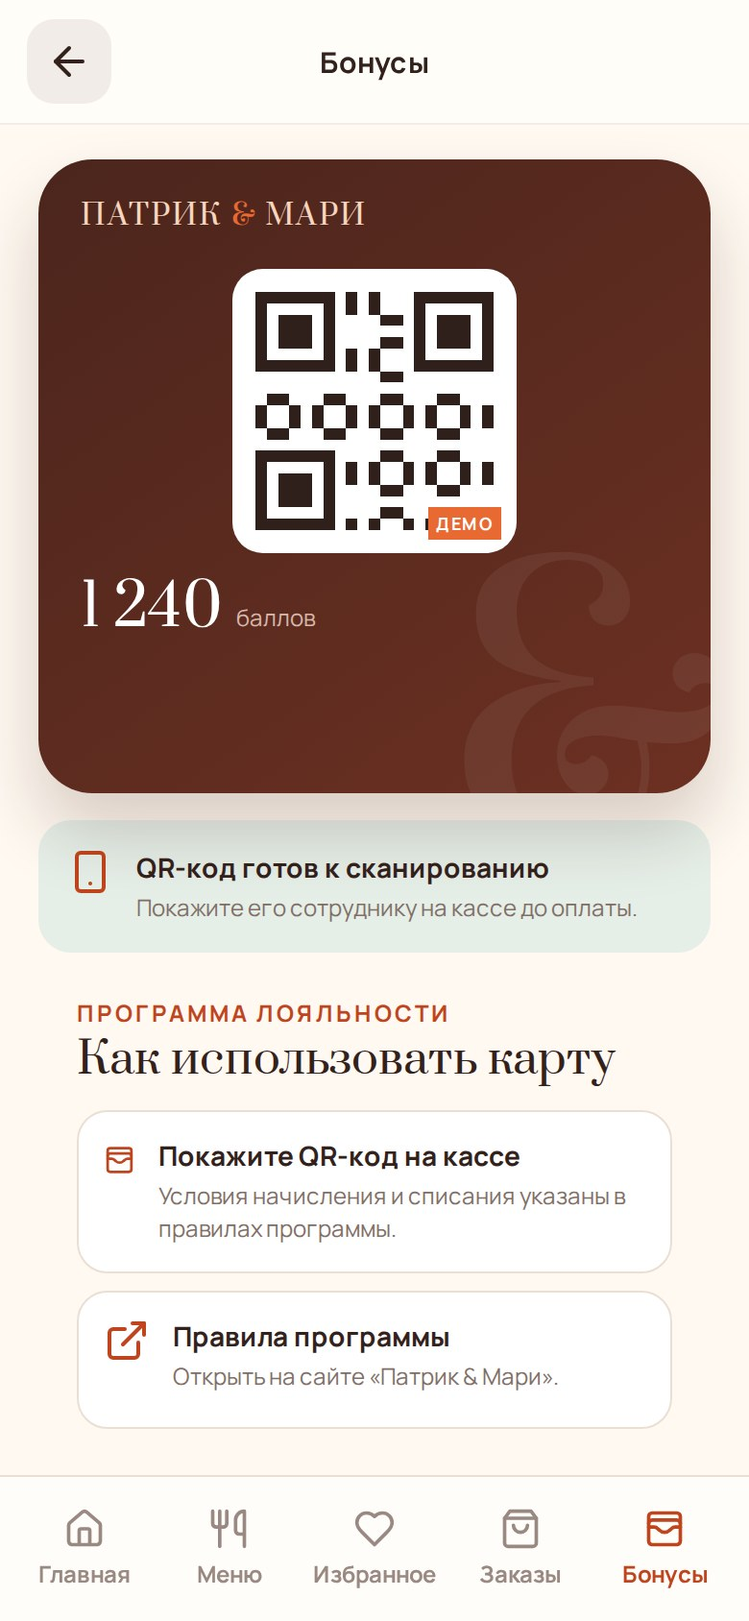
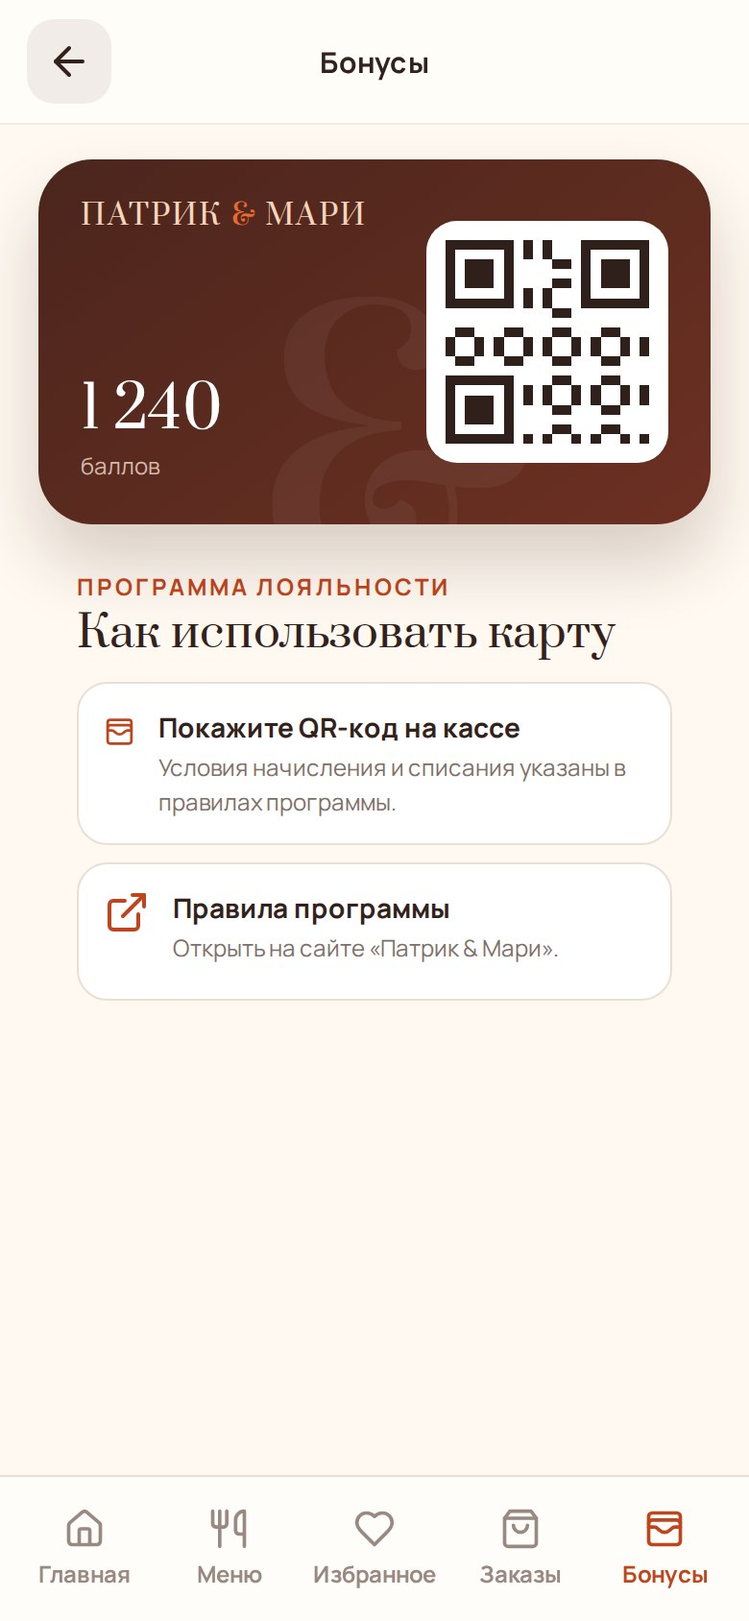
Refine cake card and loyalty presentation

diff --git a/src/index.css b/src/index.css
@@ -80,11 +80,12 @@ button:disabled { opacity: .42; cursor: not-allowed; }
 .loyalty-tile > span { display: flex; align-items: center; gap: 8px; font-size: 11px; color: #f1c7a8; }
 .loyalty-tile strong { font: 400 31px/1 'Prata', serif; margin-top: auto; }
 .loyalty-tile small { color: #c9aaa0; font-size: 9px; }
-.cake-tile { position: relative; isolation: isolate; overflow: hidden; color: #fff; display: flex; flex-direction: column; justify-content: flex-end; background: linear-gradient(180deg, rgba(46,20,17,.08) 8%, rgba(54,20,21,.82) 100%), url('/assets/food/cakes.jpg') center/cover; box-shadow: inset 0 0 0 1px rgba(255,255,255,.16); }
-.cake-tile::after { content: ''; position: absolute; z-index: -1; inset: 0; background: linear-gradient(135deg, rgba(255,255,255,.12), transparent 45%); pointer-events: none; }
-.cake-tile-kicker { align-self: flex-start; margin-bottom: auto; padding: 6px 8px; border-radius: 99px; color: #fff; background: rgba(70,28,28,.58); backdrop-filter: blur(7px); font-size: 8px; font-weight: 800; letter-spacing: .04em; }
+.cake-tile { position: relative; isolation: isolate; overflow: hidden; color: var(--brown); display: flex; flex-direction: column; justify-content: flex-end; background: #f4d9c6; box-shadow: inset 0 0 0 1px rgba(111,55,37,.1); }
+.cake-tile-image { position: absolute; z-index: -2; inset: 0; width: 100%; height: 100%; object-fit: cover; object-position: 62% center; }
+.cake-tile::after { content: ''; position: absolute; z-index: -1; inset: 0; background: linear-gradient(90deg, rgba(255,242,230,.98) 0%, rgba(255,242,230,.7) 52%, rgba(255,242,230,.06) 100%), linear-gradient(0deg, rgba(255,242,230,.98) 0%, rgba(255,242,230,.18) 76%); pointer-events: none; }
+.cake-tile-kicker { align-self: flex-start; margin-bottom: auto; padding: 6px 8px; border-radius: 99px; color: #fff; background: rgba(88,39,31,.88); backdrop-filter: blur(7px); font-size: 8px; font-weight: 800; letter-spacing: .04em; }
 .cake-tile > strong { max-width: 125px; font: 400 18px/1.12 'Prata', serif; letter-spacing: -.02em; text-wrap: balance; }
-.cake-tile > small { margin-top: 5px; color: rgba(255,255,255,.78); font-size: 8px; line-height: 1.35; }
+.cake-tile > small { max-width: 124px; margin-top: 5px; color: rgba(75,37,28,.72); font-size: 8px; line-height: 1.35; }
 .cake-tile-arrow { position: absolute; right: 13px; top: 13px; width: 31px; height: 31px; border-radius: 50%; display: grid; place-items: center; color: #6d3037; background: rgba(255,255,255,.9); box-shadow: 0 6px 16px rgba(48,17,18,.18); }
 .section-block { margin: 0 20px 24px; }
 .section-title { display: flex; align-items: flex-end; justify-content: space-between; margin-bottom: 12px; }
@@ -207,7 +208,7 @@ button:disabled { opacity: .42; cursor: not-allowed; }
 .cake-body { flex: 1 0 auto; padding: 22px 20px 24px; }.choice-grid { display: grid; gap: 9px; }.choice-grid button { min-height: 56px; border: 1px solid var(--line); border-radius: 17px; background: #fff; padding: 0 15px; display: flex; justify-content: space-between; align-items: center; text-align: left; font-size: 11px; cursor: pointer; }.choice-grid button.selected { border-color: var(--rose); background: #fff0f0; }.choice-grid svg { width: 17px; color: var(--rose); }.fine-print { color: var(--muted); font-size: 9px; line-height: 1.5; }
 .cake-preview { position: relative; height: 132px; overflow: hidden; border-radius: 20px; }.cake-preview img { width: 100%; height: 100%; object-fit: cover; }.cake-preview span { position: absolute; left: 12px; bottom: 12px; padding: 6px 9px; border-radius: 99px; color: #fff; background: rgba(75,37,28,.78); font-size: 9px; font-weight: 700; }
 
-.loyalty-screen { padding-left: 20px; padding-right: 20px; }.loyalty-screen .app-header { margin-left: -20px; margin-right: -20px; }.loyalty-screen .bottom-nav { left: 0; right: 0; }.loyalty-card { position: relative; min-height: 244px; margin: 18px 0 14px; border-radius: 28px; padding: 22px; overflow: hidden; color: #fff; background: linear-gradient(145deg, #4b251c, #6c3022); box-shadow: 0 20px 36px rgba(60,31,22,.2); display: flex; flex-direction: column; }.loyalty-card::after { content: '&'; position: absolute; right: -10px; bottom: -55px; color: rgba(255,255,255,.06); font: 180px/1 'Prata',serif; }.loyalty-card .wordmark { color: #f8d5bd; }.loyalty-card > div:last-child { display: flex; align-items: baseline; gap: 7px; }.loyalty-card > div:last-child strong { font: 400 30px/1 'Prata',serif; }.loyalty-card > div:last-child small { color: #d7b8ab; font-size: 9px; }.offline-banner { margin: 0 0 23px; background: #e5eee7; }.info-list { display: grid; gap: 9px; }.info-list > span { padding: 13px; display: flex; gap: 12px; align-items: flex-start; border: 1px solid var(--line); border-radius: 16px; background: #fff; }.info-list svg { color: var(--orange-dark); }.info-list div { display: flex; flex-direction: column; gap: 3px; }.info-list strong { font-size: 11px; }.info-list small { color: var(--muted); font-size: 9px; line-height: 1.5; }
+.loyalty-screen { padding-left: 20px; padding-right: 20px; }.loyalty-screen .app-header { margin-left: -20px; margin-right: -20px; }.loyalty-screen .bottom-nav { left: 0; right: 0; }.loyalty-card { position: relative; min-height: 190px; margin: 18px 0 24px; border-radius: 28px; padding: 22px; overflow: hidden; color: #fff; background: linear-gradient(145deg, #4b251c, #6c3022); box-shadow: 0 20px 36px rgba(60,31,22,.2); display: grid; grid-template-columns: minmax(0,1fr) 126px; gap: 16px; align-items: center; }.loyalty-card::after { content: '&'; position: absolute; left: 32%; bottom: -62px; color: rgba(255,255,255,.05); font: 180px/1 'Prata',serif; }.loyalty-card-copy { position: relative; z-index: 1; min-width: 0; align-self: stretch; display: flex; flex-direction: column; align-items: flex-start; }.loyalty-card .wordmark { color: #f8d5bd; }.loyalty-balance { margin-top: auto; display: flex; flex-direction: column; gap: 5px; }.loyalty-balance strong { font: 400 30px/1 'Prata',serif; }.loyalty-balance small { color: #d7b8ab; font-size: 9px; }.loyalty-qr { position: relative; z-index: 1; width: 126px; height: 126px; padding: 10px; border-radius: 16px; background: #fff; }.loyalty-qr svg { width: 100%; height: 100%; fill: #2f201c; shape-rendering: crispEdges; }.info-list { display: grid; gap: 9px; }.info-list > span { padding: 13px; display: flex; gap: 12px; align-items: flex-start; border: 1px solid var(--line); border-radius: 16px; background: #fff; }.info-list svg { color: var(--orange-dark); }.info-list div { display: flex; flex-direction: column; gap: 3px; }.info-list strong { font-size: 11px; }.info-list small { color: var(--muted); font-size: 9px; line-height: 1.5; }
 .login-illustration { width: 112px; height: 112px; border-radius: 38px; display: grid; place-items: center; margin: 34px auto 2px; color: var(--orange-dark); background: #f6dfcf; }.login-illustration svg { width: 48px; height: 48px; }.phone-input, .code-input { min-height: 60px; padding: 0 16px; border: 1px solid var(--line); border-radius: 18px; background: #fff; display: flex; align-items: center; gap: 10px; margin-bottom: 12px; }.phone-input span { font-weight: 800; }.phone-input input, .code-input input { min-width: 0; flex: 1; border: 0; outline: 0; background: transparent; }.code-input input { font-size: 26px; letter-spacing: .5em; text-align: center; }.login-screen .primary { width: 100%; }.helper { display: block; text-align: center; color: var(--muted); font-size: 9px; margin: -3px 0 14px; }.login-screen .text-button { width: 100%; }
 .tabs { display: grid; grid-template-columns: 1fr 1fr; padding: 4px; border-radius: 14px; background: #f1ebe6; }.tabs button { min-height: 38px; border: 0; border-radius: 11px; background: transparent; font-size: 10px; cursor: pointer; }.tabs button.active { background: #fff; box-shadow: 0 3px 10px rgba(52,35,29,.08); }.history-card { width: 100%; margin-top: 14px; padding: 18px; border: 1px solid var(--line); border-radius: 20px; background: #fff; display: flex; flex-direction: column; gap: 6px; text-align: left; cursor: pointer; }.history-date { color: var(--orange-dark); text-transform: uppercase; letter-spacing: .1em; font-size: 8px; font-weight: 800; }.history-card strong { font-size: 12px; }.history-card small { color: var(--muted); font-size: 9px; }.history-action { margin-top: 9px; display: flex; align-items: center; gap: 6px; color: var(--orange-dark); font-size: 10px; font-weight: 800; }.empty-inline { display: flex; gap: 12px; align-items: center; margin-top: 16px; padding: 16px; border-radius: 18px; background: #f5efea; color: var(--muted); }.empty-inline span { display: flex; flex-direction: column; gap: 3px; }.empty-inline strong { color: var(--ink); font-size: 10px; }.empty-inline small { font-size: 9px; line-height: 1.45; }
 .current-orders { display: grid; gap: 12px; margin-top: 14px; }.current-order { padding: 18px; border: 1px solid var(--line); border-radius: 20px; background: #fff; }.order-status { display: flex; align-items: center; gap: 7px; color: var(--green); font-size: 9px; font-weight: 800; }.order-status svg { width: 17px; }.current-order h2 { margin: 13px 0 6px; font-family: 'Manrope', sans-serif; font-size: 13px; font-weight: 800; }.current-order > p { margin: 0; color: var(--muted); font-size: 9px; }.current-order ul { list-style: none; margin: 14px 0; padding: 12px 0; border-top: 1px solid var(--line); border-bottom: 1px solid var(--line); display: grid; gap: 8px; }.current-order li, .current-order > div { display: flex; justify-content: space-between; gap: 12px; font-size: 9px; }.current-order li b, .current-order > div strong { text-align: right; }.current-order > div span { color: var(--muted); }
@@ -378,11 +379,8 @@ button:disabled { opacity: .42; cursor: not-allowed; }
 .form-field textarea { min-height: 62px; resize: vertical; }
 .cake-preview span { font-size: 12px; }
 
-.loyalty-card { min-height: 330px; }
-.demo-qr { position: relative; z-index: 1; width: 148px; height: 148px; margin: 20px auto 14px; padding: 12px; border-radius: 16px; background: #fff; }
-.demo-qr svg { width: 100%; height: 100%; fill: #2f201c; shape-rendering: crispEdges; }
-.demo-qr > span { position: absolute; right: 8px; bottom: 7px; padding: 2px 4px; color: #fff; background: var(--orange); font-size: 9px; font-weight: 900; letter-spacing: .08em; }
-.loyalty-card > div:last-child small { font-size: 12px; }
+.loyalty-card { min-height: 190px; }
+.loyalty-balance small { font-size: 12px; }
 .info-list > span, .info-list > a { min-height: 72px; padding: 13px; display: flex; gap: 12px; align-items: flex-start; border: 1px solid var(--line); border-radius: 16px; color: inherit; background: #fff; text-decoration: none; }
 .info-list strong { font-size: 14px; }
 .info-list small { font-size: 12px; }

diff --git a/src/App.tsx b/src/App.tsx
@@ -348,7 +348,7 @@ function HomeScreen({ state, onMode }: { state: DemoState; onMode: (mode: Servic
       <section className="welcome-card"><span className="eyebrow">Готовая еда каждый день</span><h1>Закажите готовую<br />еду</h1><p>Выберите доставку или самовывоз. Покажем меню и время для выбранного места.</p><div className="welcome-actions"><button className="primary light" onClick={() => onMode('delivery')}><PackageCheck /> Доставка</button><button className="primary ghost-light" onClick={() => onMode('pickup')}><Store /> Самовывоз</button></div></section>
       <section className="quick-grid">
         <button className={`loyalty-tile${state.authenticated ? '' : ' guest'}`} onClick={() => navigate(state.authenticated ? '/loyalty' : '/login?step=phone&next=loyalty')}><span><WalletCards /> Бонусы</span>{state.authenticated ? <><strong>1 240</strong><small>баллов · показать QR-код</small></> : <><strong>Войти</strong><small>Открыть виртуальную карту</small></>}</button>
-        <button className="cake-tile" onClick={() => navigate('/cake?step=occasion')}><span className="cake-tile-kicker">Торт на заказ</span><strong>Оставить заявку</strong><small>Повод, оформление, дата и телефон</small><span className="cake-tile-arrow"><ArrowRight /></span></button>
+        <button className="cake-tile" onClick={() => navigate('/cake?step=occasion')}><img className="cake-tile-image" src={products.find((product) => product.id === 'sour-cream-cake')?.image} alt="" /><span className="cake-tile-kicker">Торт на заказ</span><strong>Оставить заявку</strong><small>Повод, оформление, дата и телефон</small><span className="cake-tile-arrow"><ArrowRight /></span></button>
       </section>
       {state.authenticated ? <section className="section-block"><div className="section-title"><div><span className="eyebrow">Прошлый заказ</span><h2>Заказать снова</h2></div><button onClick={() => navigate('/repeat')}>Проверить заказ</button></div><button className="repeat-card" onClick={() => navigate('/repeat')}><div className="repeat-images"><img src={products.find((product) => product.id === 'syrniki')?.image} alt="Сырник творожный" /><img src={products.find((product) => product.id === 'bakery')?.image} alt="Киш с рыбой" /></div><div><strong>4 товара · {money(total(previousOrder))} в прошлый раз</strong><span>Проверить текущие цены и наличие</span></div><ChevronRight /></button></section> : <section className="section-block guest-section"><UserRound /><div><strong>Войдите, чтобы открыть заказы и адреса</strong><span>После входа можно посмотреть историю и повторить заказ.</span></div><button onClick={() => navigate('/login?step=phone&next=orders')}>Войти</button></section>}
       <section className="section-block"><div className="section-title"><div><span className="eyebrow">Самовывоз</span><h2>Забрать сегодня</h2></div></div><div className="editorial-card"><img src="assets/food/salads.jpg" alt="Салат с курицей и овощами" /><div><span>Готовая еда</span><strong>Выберите ближайшую кулинарию</strong><button onClick={() => onMode('pickup')}>Найти кулинарию <ArrowRight /></button></div></div></section>
@@ -467,17 +467,17 @@ function CakeConfirmScreen({ request }: { request: CakeRequest | null }) {
   return <div className="screen result-screen success-result"><div className="result-icon"><CakeSlice /></div><span className="eyebrow">Готово</span><h1>Заявка сохранена</h1><p>Сотрудник свяжется по указанному номеру, чтобы уточнить начинку, оформление и стоимость.</p><div className="receipt"><span><small>Повод</small><strong>{request.occasion}</strong></span><span><small>Количество гостей</small><strong>{request.guests}</strong></span><span><small>Оформление</small><strong>{request.design}</strong></span><span><small>Дата</small><strong>{request.date}</strong></span><span><small>Телефон</small><strong>{request.phone}</strong></span></div><button className="primary" onClick={() => navigate('/')}>На главную</button><button className="text-button" onClick={() => navigate('/cake?step=occasion')}>Изменить заявку</button></div>
 }
 
-function DemoQr() {
+function LoyaltyQr() {
   const cells = useMemo(() => {
     const finder = (row: number, col: number, top: number, left: number) => row >= top && row < top + 7 && col >= left && col < left + 7 && (row === top || row === top + 6 || col === left || col === left + 6 || (row >= top + 2 && row <= top + 4 && col >= left + 2 && col <= left + 4))
     return Array.from({ length: 21 * 21 }, (_, index) => { const row = Math.floor(index / 21); const col = index % 21; return finder(row, col, 0, 0) || finder(row, col, 0, 14) || finder(row, col, 14, 0) || ((row * 11 + col * 7 + row * col) % 5 < 2 && !(row < 8 && (col < 8 || col > 12)) && !(row > 12 && col < 8)) })
   }, [])
-  return <div className="demo-qr" aria-label="Демонстрационный QR-код карты"><svg viewBox="0 0 21 21" role="img">{cells.map((dark, index) => dark && <rect key={index} x={index % 21} y={Math.floor(index / 21)} width="1" height="1" />)}</svg><span>ДЕМО</span></div>
+  return <div className="loyalty-qr" aria-label="QR-код карты"><svg viewBox="0 0 21 21" role="img">{cells.map((dark, index) => dark && <rect key={index} x={index % 21} y={Math.floor(index / 21)} width="1" height="1" />)}</svg></div>
 }
 
 function LoyaltyScreen({ authenticated }: { authenticated: boolean }) {
   if (!authenticated) return <div className="screen with-nav paper-screen"><Header title="Бонусы" /><GuestGate icon={<WalletCards />} title="Войдите, чтобы открыть карту" text="После входа здесь появятся баланс и QR-код виртуальной карты." next="loyalty" /></div>
-  return <div className="screen with-nav loyalty-screen"><Header title="Бонусы" /><div className="loyalty-card"><span className="wordmark">ПАТРИК <i>&</i> МАРИ</span><DemoQr /><div><strong>1 240</strong><small>баллов</small></div></div><div className="offline-banner"><Smartphone /><span><strong>QR-код готов к сканированию</strong><small>Покажите его сотруднику на кассе до оплаты.</small></span></div><section className="section-block"><div className="section-title"><div><span className="eyebrow">Программа лояльности</span><h2>Как использовать карту</h2></div></div><div className="info-list"><span><WalletCards /><div><strong>Покажите QR-код на кассе</strong><small>Условия начисления и списания указаны в правилах программы.</small></div></span><a href="https://patrickmary.ru/bonusy" target="_blank" rel="noreferrer"><ExternalLink /><div><strong>Правила программы</strong><small>Открыть на сайте «Патрик & Мари».</small></div></a></div></section></div>
+  return <div className="screen with-nav loyalty-screen"><Header title="Бонусы" /><div className="loyalty-card"><div className="loyalty-card-copy"><span className="wordmark">ПАТРИК <i>&</i> МАРИ</span><div className="loyalty-balance"><strong>1 240</strong><small>баллов</small></div></div><LoyaltyQr /></div><section className="section-block"><div className="section-title"><div><span className="eyebrow">Программа лояльности</span><h2>Как использовать карту</h2></div></div><div className="info-list"><span><WalletCards /><div><strong>Покажите QR-код на кассе</strong><small>Условия начисления и списания указаны в правилах программы.</small></div></span><a href="https://patrickmary.ru/bonusy" target="_blank" rel="noreferrer"><ExternalLink /><div><strong>Правила программы</strong><small>Открыть на сайте «Патрик & Мари».</small></div></a></div></section></div>
 }
 
 function GuestGate({ icon, title, text, next }: { icon: ReactNode; title: string; text: string; next: string }) {

diff --git a/src/case.css b/src/case.css
@@ -49,7 +49,7 @@ button:focus-visible, a:focus-visible { outline: 3px solid rgba(233,107,55,.45);
 .metric-grid { display: grid; grid-template-columns: 1fr 1fr; gap: 11px; }.metric-grid article { min-height: 122px; padding: 19px; border: 1px solid var(--line); border-radius: 22px; background: rgba(255,250,244,.74); display: flex; flex-direction: column; justify-content: space-between; }.metric-grid span { color: var(--orange); font-size: 9px; font-weight: 800; }.metric-grid strong { max-width: 330px; font-size: 12px; line-height: 1.45; }.metric-footer { grid-column: 1 / 3; margin-top: -3vw; display: flex; gap: 9px; align-items: center; color: #806b63; font-size: 9px; }.metric-footer svg { width: 17px; color: var(--orange); }
 
 .scope-layout { display: grid; grid-template-columns: .72fr 1.28fr; gap: 5vw; align-items: center; }.scope-wheel { position: relative; width: min(600px, 43vw); aspect-ratio: 1; justify-self: center; border-radius: 50%; border: 1px solid #d9c4b8; }.scope-wheel::before, .scope-wheel::after { content: ''; position: absolute; border-radius: 50%; border: 1px dashed #d9c4b8; }.scope-wheel::before { inset: 16%; }.scope-wheel::after { inset: 32%; }.scope-core { position: absolute; z-index: 2; inset: 36%; display: grid; place-items: center; border-radius: 50%; text-align: center; color: #fff; background: var(--brown); font: 400 clamp(13px,1.3vw,18px)/1.2 'Prata',serif; }.scope-wheel > span { position: absolute; z-index: 3; min-width: 130px; padding: 12px 14px; border: 1px solid var(--line); border-radius: 15px; background: #fffaf4; box-shadow: 0 9px 20px rgba(75,37,28,.07); text-align: center; font-size: 10px; font-weight: 800; }.scope-wheel .s1 { left: 50%; top: -2%; transform: translateX(-50%); }.scope-wheel .s2 { right: -4%; top: 27%; }.scope-wheel .s3 { right: 2%; bottom: 12%; }.scope-wheel .s4 { left: 2%; bottom: 12%; }.scope-wheel .s5 { left: -4%; top: 27%; }.scope-note { position: absolute; left: clamp(34px,6vw,96px); bottom: 30px; color: #8b766e; font-size: 9px; }
-.contact-layout { display: grid; grid-template-columns: .8fr 1.2fr; gap: 7vw; align-items: center; }.contact-orbit { width: min(480px,36vw); aspect-ratio: 1; justify-self: center; border-radius: 50%; display: grid; place-items: center; text-align: center; color: #fff; background: var(--orange); box-shadow: 0 30px 70px rgba(196,75,34,.26); }.contact-orbit svg { width: 70px; height: 70px; }.contact-orbit span { margin-top: -34%; font: 400 clamp(16px,1.6vw,23px)/1.35 'Prata',serif; }.contact-copy { max-width: 710px; }.contact-links { display: grid; grid-template-columns: repeat(2,minmax(0,1fr)); gap: 12px; margin: 26px 0; }.contact-links a { min-width: 0; padding: 14px 16px; display: flex; align-items: center; justify-content: space-between; gap: 10px; color: var(--brown); border: 1px solid var(--line); border-radius: 14px; text-decoration: none; font-size: 11px; font-weight: 800; }.contact-links svg { width: 16px; flex: 0 0 auto; }.contact-copy > small { display: block; margin-top: 20px; color: var(--muted); font-size: 9px; line-height: 1.65; }
+.contact-layout { display: grid; grid-template-columns: .8fr 1.2fr; gap: 7vw; align-items: center; }.contact-orbit { width: min(480px,36vw); aspect-ratio: 1; justify-self: center; border-radius: 50%; display: grid; place-items: center; text-align: center; color: #fff; background: var(--orange); box-shadow: 0 30px 70px rgba(196,75,34,.26); }.contact-orbit svg { width: 70px; height: 70px; }.contact-orbit span { margin-top: -34%; font: 400 clamp(16px,1.6vw,23px)/1.35 'Prata',serif; }.contact-copy { max-width: 710px; }.adaptation-note { margin: -8px 0 20px; padding: 15px 17px; border-radius: 17px; display: flex; flex-direction: column; gap: 6px; background: #efe1d5; color: #765e54; }.adaptation-note strong { color: var(--brown); font: 400 17px/1.25 'Prata',serif; }.adaptation-note span { font-size: 10px; line-height: 1.55; }.contact-links { display: grid; grid-template-columns: repeat(2,minmax(0,1fr)); gap: 12px; margin: 20px 0; }.contact-links a { min-width: 0; padding: 14px 16px; display: flex; align-items: center; justify-content: space-between; gap: 10px; color: var(--brown); border: 1px solid var(--line); border-radius: 14px; text-decoration: none; font-size: 11px; font-weight: 800; }.contact-links svg { width: 16px; flex: 0 0 auto; }.contact-copy > small { display: block; margin-top: 15px; color: var(--muted); font-size: 9px; line-height: 1.65; }
 
 @keyframes enter { from { opacity: 0; transform: translateY(10px); } to { opacity: 1; transform: none; } }
 .case-slide > section { animation: enter .38s ease both; }
@@ -86,7 +86,7 @@ button:focus-visible, a:focus-visible { outline: 3px solid rgba(233,107,55,.45);
   .pilot-timeline { gap: 8px; }.pilot-timeline::before { left: 25px; }.pilot-timeline article { min-height: 85px; padding: 13px; grid-template-columns: 32px 1fr; gap: 11px; border-radius: 18px; }.pilot-timeline b, .pilot-result > svg { width: 31px; height: 31px; }.pilot-timeline strong { font-size: 14px; }.pilot-timeline span { font-size: 8px; }
   .metric-grid { gap: 7px; }.metric-grid article { min-height: 96px; padding: 13px; border-radius: 17px; }.metric-grid strong { font-size: 9px; }.metric-footer { margin-top: 8px; }
   .scope-wheel { max-width: 315px; margin: 30px 0; }.scope-wheel > span { min-width: 95px; padding: 8px; font-size: 7px; }.scope-wheel .s2 { right: -8%; }.scope-wheel .s5 { left: -8%; }
-  .contact-orbit { display: none; }.contact-links { gap: 8px; margin: 14px 0; }.contact-links a { min-width: 0; padding: 11px; font-size: 9px; }
+  .contact-orbit { display: none; }.adaptation-note { margin: -4px 0 14px; padding: 12px 13px; }.adaptation-note strong { font-size: 14px; }.adaptation-note span { font-size: 9px; }.contact-links { gap: 8px; margin: 14px 0; }.contact-links a { min-width: 0; padding: 11px; font-size: 9px; }
 }
 
 @media (prefers-reduced-motion: reduce) { *, *::before, *::after { animation-duration: .01ms !important; transition-duration: .01ms !important; } }

diff --git a/src/case/CasePage.tsx b/src/case/CasePage.tsx
@@ -142,6 +142,6 @@ function Scope() {
 
 function Contact() {
   return (
-    <section className="contact-layout"><div className="contact-orbit"><Smartphone /><span>Рабочий прототип<br />готов к просмотру</span></div><div className="contact-copy"><SectionLabel number="12">Следующий шаг</SectionLabel><h2>Пройдём прототип<br /><em>вместе в Краснодаре</em></h2><p>Покажем сценарии входа, заказа готовой еды и повторной оплаты. Затем определим состав пилота и данные для сравнения.</p><div className="contact-links"><a href="mailto:hello@eh.works">hello@eh.works <ArrowRight /></a><a href="https://eh.works" target="_blank" rel="noreferrer">eh.works <ArrowRight /></a><a href="https://t.me/andrey_ergohaven" target="_blank" rel="noreferrer">Telegram · @andrey_ergohaven <ArrowRight /></a><a href="https://max.ru/id5041212966_biz" target="_blank" rel="noreferrer">MAX · +7 988 154-04-00 <ArrowRight /></a></div><LinkButton href={proto('/')}>Открыть прототип</LinkButton><small className="contact-scope">ООО «ЭРГОХАВЭН» · аккредитованная ИТ-компания из Краснодара<br />Продуктовая аналитика · UX/UI-дизайн · разработка · интеграции · публикация · обновления · техническая поддержка<br />Готовы приехать и показать прототип лично.</small></div></section>
+    <section className="contact-layout"><div className="contact-orbit"><Smartphone /><span>Рабочий прототип<br />готов к просмотру</span></div><div className="contact-copy"><SectionLabel number="12">Следующий шаг</SectionLabel><h2>Пройдём прототип<br /><em>вместе в Краснодаре</em></h2><p>Покажем сценарии входа, заказа готовой еды и повторной оплаты. Затем определим состав пилота и данные для сравнения.</p><div className="adaptation-note"><strong>Прототип можно адаптировать</strong><span>Сейчас в прототипе показан один из вариантов приложения. Расскажите, что ещё важно учесть, — мы добавим это в прототип и покажем, как оно будет выглядеть и работать.</span></div><div className="contact-links"><a href="mailto:hello@eh.works">hello@eh.works <ArrowRight /></a><a href="https://eh.works" target="_blank" rel="noreferrer">eh.works <ArrowRight /></a><a href="https://t.me/andrey_ergohaven" target="_blank" rel="noreferrer">Telegram · @andrey_ergohaven <ArrowRight /></a><a href="https://max.ru/id5041212966_biz" target="_blank" rel="noreferrer">MAX · +7 988 154-04-00 <ArrowRight /></a></div><LinkButton href={proto('/')}>Открыть прототип</LinkButton><small className="contact-scope">ООО «ЭРГОХАВЭН» · аккредитованная ИТ-компания из Краснодара<br />Продуктовая аналитика · UX/UI-дизайн · разработка · интеграции · публикация · обновления · техническая поддержка<br />Готовы приехать и показать прототип лично.</small></div></section>
   )
 }
